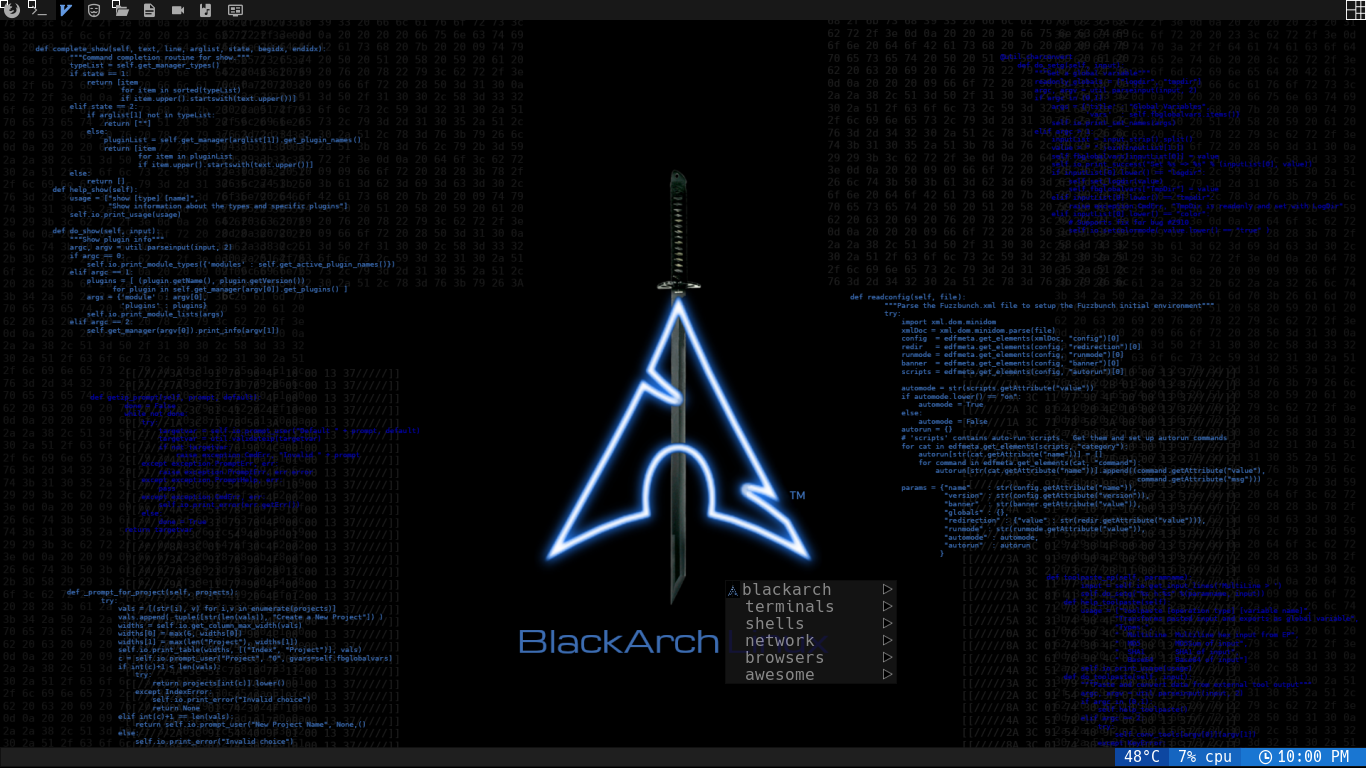
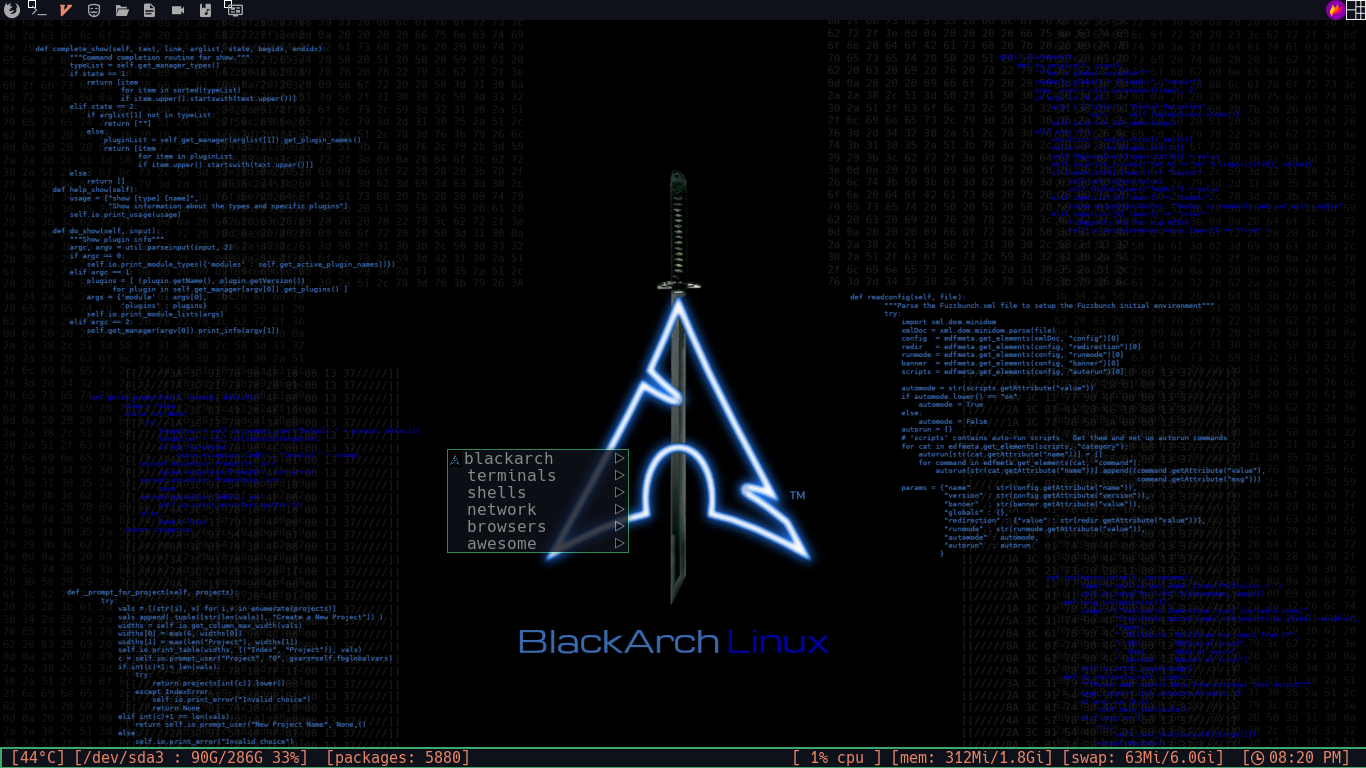
updating

diff --git a/README.md b/README.md
@@ -8,19 +8,24 @@
 
 * mod4+shift+w or right click menu
     ![pics/2.png](pics/2.png)
-    ![pics/3.png](pics/3.png)
 
 * layouts
+    ![pics/3.png](pics/3.png)
     ![pics/4.png](pics/4.png)
+    ![pics/5.png](pics/5.png)
 
 * run menu
     ![pics/6.png](pics/6.png)
     ![pics/7.png](pics/7.png)
 
-# coming soon
+* screenkey
+    ![pics/8.png](pics/8.png)
+
+# todo 
 -----------------------------------------------
 - [ ] update polybar
 
 - [ ] update screenshots
 
 - [ ] make a script to auto installation
+
